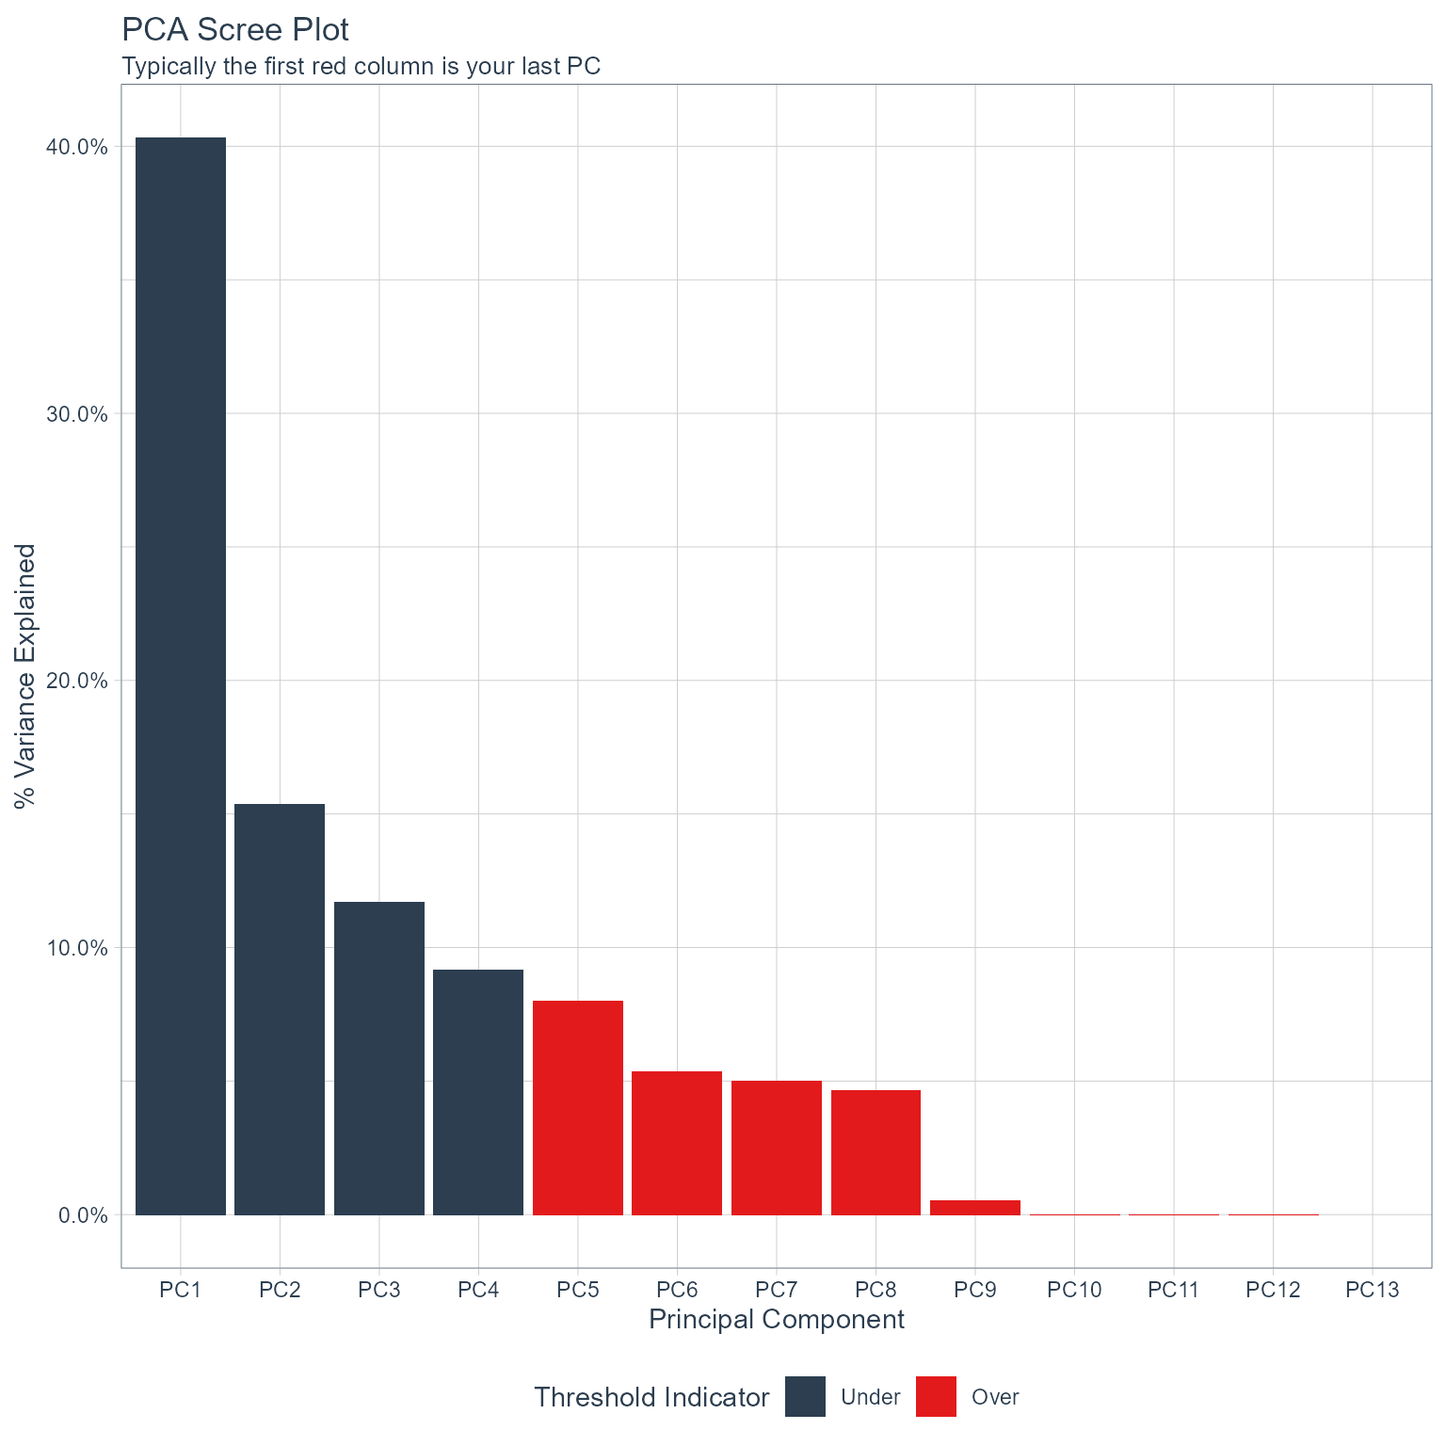
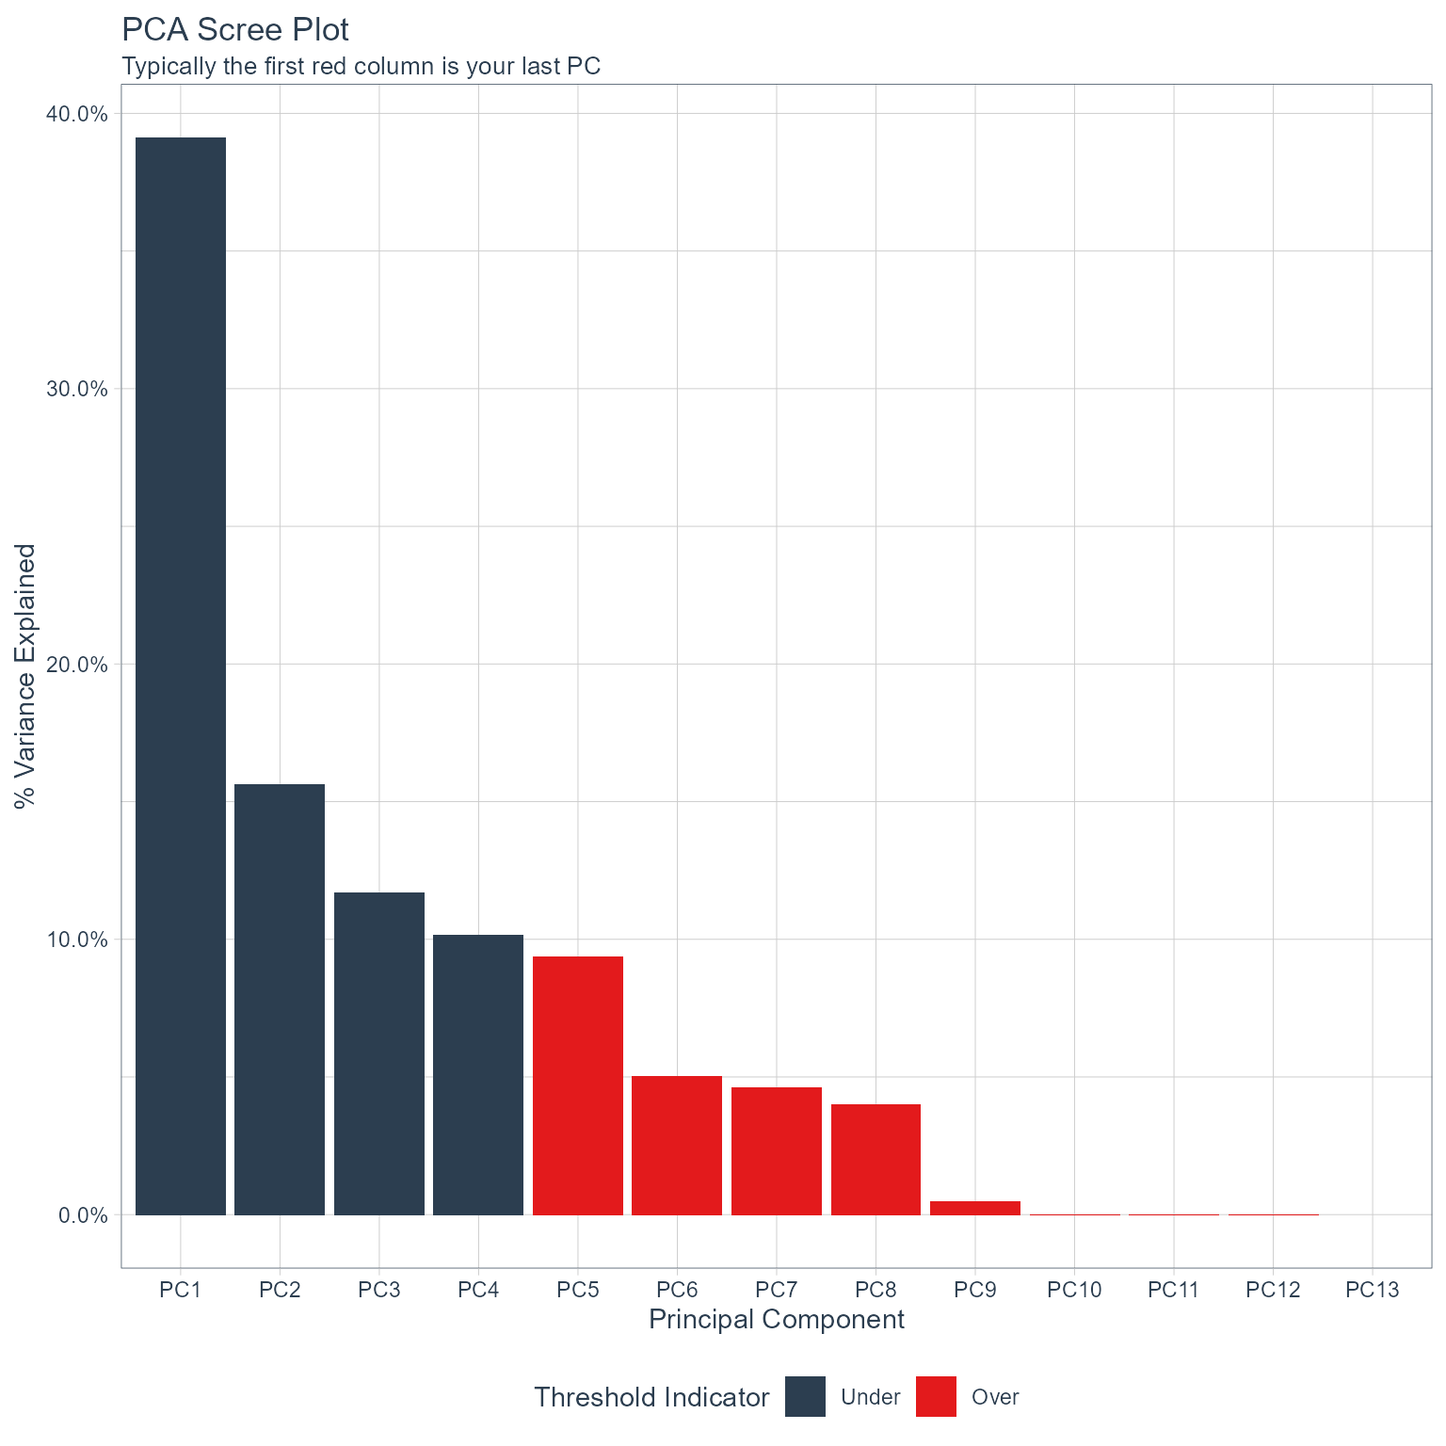
rebuild site

diff --git a/docs/articles/getting-started.html b/docs/articles/getting-started.html
@@ -172,12 +172,12 @@
 <span class="co">#&gt; # A tibble: 6 x 2</span>
 <span class="co">#&gt;   date_col            value</span>
 <span class="co">#&gt;   &lt;dttm&gt;              &lt;int&gt;</span>
-<span class="co">#&gt; 1 2016-02-01 00:00:00  1474</span>
-<span class="co">#&gt; 2 2019-12-01 00:00:00  1381</span>
-<span class="co">#&gt; 3 2013-03-01 00:00:00  1796</span>
-<span class="co">#&gt; 4 2013-05-01 00:00:00  2028</span>
-<span class="co">#&gt; 5 2017-01-01 00:00:00  1635</span>
-<span class="co">#&gt; 6 2015-03-01 00:00:00  1628</span></code></pre></div>
+<span class="co">#&gt; 1 2017-06-01 00:00:00  1661</span>
+<span class="co">#&gt; 2 2017-04-01 00:00:00  1493</span>
+<span class="co">#&gt; 3 2018-01-01 00:00:00  1756</span>
+<span class="co">#&gt; 4 2014-04-01 00:00:00  1805</span>
+<span class="co">#&gt; 5 2016-06-01 00:00:00  1544</span>
+<span class="co">#&gt; 6 2013-11-01 00:00:00  1669</span></code></pre></div>
 </div>
 <div id="initial-recipe" class="section level2">
 <h2 class="hasAnchor">
@@ -204,25 +204,25 @@
 <span class="fu"><a href="../reference/get_juiced_data.html">get_juiced_data</a></span><span class="op">(</span><span class="va">rec_obj</span><span class="op">)</span> <span class="op">%&gt;%</span> <span class="fu"><a href="https://pillar.r-lib.org/reference/glimpse.html">glimpse</a></span><span class="op">(</span><span class="op">)</span>
 <span class="co">#&gt; Rows: 76</span>
 <span class="co">#&gt; Columns: 20</span>
-<span class="co">#&gt; $ date_col           &lt;dttm&gt; 2016-02-01, 2019-12-01, 2013-03-01, 2013-05-01, 20~</span>
-<span class="co">#&gt; $ value              &lt;int&gt; 1474, 1381, 1796, 2028, 1635, 1628, 1452, 1692, 140~</span>
-<span class="co">#&gt; $ date_col_index.num &lt;dbl&gt; 1454284800, 1575158400, 1362096000, 1367366400, 148~</span>
-<span class="co">#&gt; $ date_col_year      &lt;int&gt; 2016, 2019, 2013, 2013, 2017, 2015, 2015, 2015, 201~</span>
-<span class="co">#&gt; $ date_col_half      &lt;int&gt; 1, 2, 1, 1, 1, 1, 1, 1, 1, 2, 1, 1, 2, 2, 1, 1, 1, ~</span>
-<span class="co">#&gt; $ date_col_quarter   &lt;int&gt; 1, 4, 1, 2, 1, 1, 1, 1, 2, 4, 2, 1, 3, 3, 2, 2, 1, ~</span>
-<span class="co">#&gt; $ date_col_month     &lt;int&gt; 2, 12, 3, 5, 1, 3, 2, 1, 6, 11, 4, 1, 9, 7, 6, 5, 2~</span>
-<span class="co">#&gt; $ date_col_month.lbl &lt;ord&gt; February, December, March, May, January, March, Feb~</span>
+<span class="co">#&gt; $ date_col           &lt;dttm&gt; 2017-06-01, 2017-04-01, 2018-01-01, 2014-04-01, 20~</span>
+<span class="co">#&gt; $ value              &lt;int&gt; 1661, 1493, 1756, 1805, 1544, 1669, 1630, 1659, 160~</span>
+<span class="co">#&gt; $ date_col_index.num &lt;dbl&gt; 1496275200, 1491004800, 1514764800, 1396310400, 146~</span>
+<span class="co">#&gt; $ date_col_year      &lt;int&gt; 2017, 2017, 2018, 2014, 2016, 2013, 2015, 2017, 201~</span>
+<span class="co">#&gt; $ date_col_half      &lt;int&gt; 1, 1, 1, 1, 1, 2, 1, 1, 2, 2, 2, 2, 1, 2, 2, 1, 2, ~</span>
+<span class="co">#&gt; $ date_col_quarter   &lt;int&gt; 2, 2, 1, 2, 2, 4, 2, 1, 3, 3, 3, 4, 2, 4, 3, 1, 3, ~</span>
+<span class="co">#&gt; $ date_col_month     &lt;int&gt; 6, 4, 1, 4, 6, 11, 6, 3, 8, 9, 8, 11, 4, 12, 8, 1, ~</span>
+<span class="co">#&gt; $ date_col_month.lbl &lt;ord&gt; June, April, January, April, June, November, June, ~</span>
 <span class="co">#&gt; $ date_col_day       &lt;int&gt; 1, 1, 1, 1, 1, 1, 1, 1, 1, 1, 1, 1, 1, 1, 1, 1, 1, ~</span>
-<span class="co">#&gt; $ date_col_wday      &lt;int&gt; 2, 1, 6, 4, 1, 1, 1, 5, 7, 4, 4, 4, 1, 1, 2, 2, 7, ~</span>
-<span class="co">#&gt; $ date_col_wday.lbl  &lt;ord&gt; Monday, Sunday, Friday, Wednesday, Sunday, Sunday, ~</span>
+<span class="co">#&gt; $ date_col_wday      &lt;int&gt; 5, 7, 2, 3, 4, 6, 2, 4, 3, 3, 7, 4, 6, 3, 6, 1, 6, ~</span>
+<span class="co">#&gt; $ date_col_wday.lbl  &lt;ord&gt; Thursday, Saturday, Monday, Tuesday, Wednesday, Fri~</span>
 <span class="co">#&gt; $ date_col_mday      &lt;int&gt; 1, 1, 1, 1, 1, 1, 1, 1, 1, 1, 1, 1, 1, 1, 1, 1, 1, ~</span>
-<span class="co">#&gt; $ date_col_qday      &lt;int&gt; 32, 62, 60, 31, 1, 60, 32, 1, 62, 32, 1, 1, 63, 1, ~</span>
-<span class="co">#&gt; $ date_col_yday      &lt;int&gt; 32, 335, 60, 121, 1, 60, 32, 1, 152, 305, 92, 1, 24~</span>
-<span class="co">#&gt; $ date_col_mweek     &lt;int&gt; 6, 5, 5, 5, 5, 4, 5, 5, 5, 5, 5, 5, 5, 5, 6, 6, 5, ~</span>
-<span class="co">#&gt; $ date_col_week      &lt;int&gt; 5, 48, 9, 18, 1, 9, 5, 1, 22, 44, 14, 1, 35, 26, 22~</span>
-<span class="co">#&gt; $ date_col_week2     &lt;int&gt; 1, 0, 1, 0, 1, 1, 1, 1, 0, 0, 0, 1, 1, 0, 0, 0, 1, ~</span>
-<span class="co">#&gt; $ date_col_week3     &lt;int&gt; 2, 0, 0, 0, 1, 0, 2, 1, 1, 2, 2, 1, 2, 2, 1, 0, 2, ~</span>
-<span class="co">#&gt; $ date_col_week4     &lt;int&gt; 1, 0, 1, 2, 1, 1, 1, 1, 2, 0, 2, 1, 3, 2, 2, 2, 1, ~</span>
+<span class="co">#&gt; $ date_col_qday      &lt;int&gt; 62, 1, 1, 1, 62, 32, 62, 60, 32, 63, 32, 32, 1, 62,~</span>
+<span class="co">#&gt; $ date_col_yday      &lt;int&gt; 152, 91, 1, 91, 153, 305, 152, 60, 213, 245, 213, 3~</span>
+<span class="co">#&gt; $ date_col_mweek     &lt;int&gt; 5, 5, 6, 6, 5, 5, 6, 5, 6, 6, 5, 5, 5, 5, 5, 5, 5, ~</span>
+<span class="co">#&gt; $ date_col_week      &lt;int&gt; 22, 13, 1, 13, 22, 44, 22, 9, 31, 35, 31, 44, 14, 4~</span>
+<span class="co">#&gt; $ date_col_week2     &lt;int&gt; 0, 1, 1, 1, 0, 0, 0, 1, 1, 1, 1, 0, 0, 0, 1, 1, 1, ~</span>
+<span class="co">#&gt; $ date_col_week3     &lt;int&gt; 1, 1, 1, 1, 1, 2, 1, 0, 1, 2, 1, 2, 2, 0, 1, 1, 2, ~</span>
+<span class="co">#&gt; $ date_col_week4     &lt;int&gt; 2, 1, 1, 1, 2, 0, 2, 1, 3, 3, 3, 0, 2, 0, 3, 1, 3, ~</span>
 <span class="co">#&gt; $ date_col_mday7     &lt;int&gt; 1, 1, 1, 1, 1, 1, 1, 1, 1, 1, 1, 1, 1, 1, 1, 1, 1, ~</span></code></pre></div>
 <p>Now that we have out initial recipe we can use the <code><a href="../reference/pca_your_recipe.html">pca_your_recipe()</a></code> function.</p>
 <div class="sourceCode" id="cb6"><pre class="downlit sourceCode r">
@@ -236,9 +236,9 @@
 <span class="co">#&gt;   as.zoo.data.frame zoo</span></code></pre></div>
 </div>
 </div>
-<div id="inspec-pca-output" class="section level1">
+<div id="inspect-pca-output" class="section level1">
 <h1 class="hasAnchor">
-<a href="#inspec-pca-output" class="anchor"></a>Inspec PCA Output</h1>
+<a href="#inspect-pca-output" class="anchor"></a>Inspect PCA Output</h1>
 <p>The function returns a list object and does so <code>insvisible</code> so you must assign the output to a variable, you can then access the items of the list in the usual manner.</p>
 <p>The following items are included in the output of the function:</p>
 <ol style="list-style-type: decimal">
@@ -286,16 +286,16 @@
 <span class="co">#&gt; # A tibble: 169 x 4</span>
 <span class="co">#&gt;    terms                 value component id       </span>
 <span class="co">#&gt;    &lt;chr&gt;                 &lt;dbl&gt; &lt;chr&gt;     &lt;chr&gt;    </span>
-<span class="co">#&gt;  1 date_col_index.num  0.130   PC1       pca_14C6o</span>
-<span class="co">#&gt;  2 date_col_year       0.0809  PC1       pca_14C6o</span>
-<span class="co">#&gt;  3 date_col_half       0.383   PC1       pca_14C6o</span>
-<span class="co">#&gt;  4 date_col_quarter    0.428   PC1       pca_14C6o</span>
-<span class="co">#&gt;  5 date_col_month      0.431   PC1       pca_14C6o</span>
-<span class="co">#&gt;  6 date_col_wday       0.00672 PC1       pca_14C6o</span>
-<span class="co">#&gt;  7 date_col_qday       0.00438 PC1       pca_14C6o</span>
-<span class="co">#&gt;  8 date_col_yday       0.431   PC1       pca_14C6o</span>
-<span class="co">#&gt;  9 date_col_mweek     -0.0595  PC1       pca_14C6o</span>
-<span class="co">#&gt; 10 date_col_week       0.432   PC1       pca_14C6o</span>
+<span class="co">#&gt;  1 date_col_index.num -0.0505  PC1       pca_eX1Af</span>
+<span class="co">#&gt;  2 date_col_year       0.00379 PC1       pca_eX1Af</span>
+<span class="co">#&gt;  3 date_col_half      -0.391   PC1       pca_eX1Af</span>
+<span class="co">#&gt;  4 date_col_quarter   -0.436   PC1       pca_eX1Af</span>
+<span class="co">#&gt;  5 date_col_month     -0.440   PC1       pca_eX1Af</span>
+<span class="co">#&gt;  6 date_col_wday       0.0415  PC1       pca_eX1Af</span>
+<span class="co">#&gt;  7 date_col_qday      -0.0715  PC1       pca_eX1Af</span>
+<span class="co">#&gt;  8 date_col_yday      -0.440   PC1       pca_eX1Af</span>
+<span class="co">#&gt;  9 date_col_mweek     -0.0288  PC1       pca_eX1Af</span>
+<span class="co">#&gt; 10 date_col_week      -0.441   PC1       pca_eX1Af</span>
 <span class="co">#&gt; # ... with 159 more rows</span></code></pre></div>
 </div>
 <div id="variable-variance" class="section level2">
@@ -306,16 +306,16 @@
 <span class="co">#&gt; # A tibble: 52 x 4</span>
 <span class="co">#&gt;    terms       value component id       </span>
 <span class="co">#&gt;    &lt;chr&gt;       &lt;dbl&gt;     &lt;int&gt; &lt;chr&gt;    </span>
-<span class="co">#&gt;  1 variance 5.24             1 pca_14C6o</span>
-<span class="co">#&gt;  2 variance 2.00             2 pca_14C6o</span>
-<span class="co">#&gt;  3 variance 1.52             3 pca_14C6o</span>
-<span class="co">#&gt;  4 variance 1.19             4 pca_14C6o</span>
-<span class="co">#&gt;  5 variance 1.04             5 pca_14C6o</span>
-<span class="co">#&gt;  6 variance 0.694            6 pca_14C6o</span>
-<span class="co">#&gt;  7 variance 0.648            7 pca_14C6o</span>
-<span class="co">#&gt;  8 variance 0.603            8 pca_14C6o</span>
-<span class="co">#&gt;  9 variance 0.0655           9 pca_14C6o</span>
-<span class="co">#&gt; 10 variance 0.000282        10 pca_14C6o</span>
+<span class="co">#&gt;  1 variance 5.08             1 pca_eX1Af</span>
+<span class="co">#&gt;  2 variance 2.03             2 pca_eX1Af</span>
+<span class="co">#&gt;  3 variance 1.52             3 pca_eX1Af</span>
+<span class="co">#&gt;  4 variance 1.32             4 pca_eX1Af</span>
+<span class="co">#&gt;  5 variance 1.22             5 pca_eX1Af</span>
+<span class="co">#&gt;  6 variance 0.654            6 pca_eX1Af</span>
+<span class="co">#&gt;  7 variance 0.597            7 pca_eX1Af</span>
+<span class="co">#&gt;  8 variance 0.521            8 pca_eX1Af</span>
+<span class="co">#&gt;  9 variance 0.0596           9 pca_eX1Af</span>
+<span class="co">#&gt; 10 variance 0.000243        10 pca_eX1Af</span>
 <span class="co">#&gt; # ... with 42 more rows</span></code></pre></div>
 </div>
 <div id="pca-estimates" class="section level2">
@@ -349,28 +349,28 @@
 <code class="sourceCode R"><span class="va">pca_list</span><span class="op">$</span><span class="va">pca_juiced_estimates</span> <span class="op">%&gt;%</span> <span class="fu"><a href="https://pillar.r-lib.org/reference/glimpse.html">glimpse</a></span><span class="op">(</span><span class="op">)</span>
 <span class="co">#&gt; Rows: 76</span>
 <span class="co">#&gt; Columns: 9</span>
-<span class="co">#&gt; $ date_col           &lt;dttm&gt; 2016-02-01, 2019-12-01, 2013-03-01, 2013-05-01, 20~</span>
-<span class="co">#&gt; $ value              &lt;dbl&gt; -0.263145023, -0.586270288, 0.855632776, 1.66170870~</span>
-<span class="co">#&gt; $ date_col_month.lbl &lt;ord&gt; February, December, March, May, January, March, Feb~</span>
-<span class="co">#&gt; $ date_col_wday.lbl  &lt;ord&gt; Monday, Sunday, Friday, Wednesday, Sunday, Sunday, ~</span>
-<span class="co">#&gt; $ PC1                &lt;dbl&gt; -2.82252699, 3.91897555, -2.73336373, -1.12715538, ~</span>
-<span class="co">#&gt; $ PC2                &lt;dbl&gt; 0.11398956, -1.61089032, 1.39469483, 1.66525062, -0~</span>
-<span class="co">#&gt; $ PC3                &lt;dbl&gt; -2.21699639, 0.77429773, 2.06788085, 1.37925418, -1~</span>
-<span class="co">#&gt; $ PC4                &lt;dbl&gt; -0.05556922, -1.24441130, 0.39300711, -0.09861874, ~</span>
-<span class="co">#&gt; $ PC5                &lt;dbl&gt; 0.62891852, 1.87188564, 0.58784794, 1.05093166, -0.~</span>
+<span class="co">#&gt; $ date_col           &lt;dttm&gt; 2017-06-01, 2017-04-01, 2018-01-01, 2014-04-01, 20~</span>
+<span class="co">#&gt; $ value              &lt;dbl&gt; 0.42303957, -0.33589948, 0.85220154, 1.07355877, -0~</span>
+<span class="co">#&gt; $ date_col_month.lbl &lt;ord&gt; June, April, January, April, June, November, June, ~</span>
+<span class="co">#&gt; $ date_col_wday.lbl  &lt;ord&gt; Thursday, Saturday, Monday, Tuesday, Wednesday, Fri~</span>
+<span class="co">#&gt; $ PC1                &lt;dbl&gt; 0.3064428, 1.7829876, 3.1182399, 1.6962665, 0.30183~</span>
+<span class="co">#&gt; $ PC2                &lt;dbl&gt; -0.02325472, 0.37706735, 1.18264584, -1.21065126, -~</span>
+<span class="co">#&gt; $ PC3                &lt;dbl&gt; -0.9702939, -0.4500568, 1.1830127, 1.1744107, -0.83~</span>
+<span class="co">#&gt; $ PC4                &lt;dbl&gt; 0.55725963, 0.82239958, -1.79914166, -1.72130612, 0~</span>
+<span class="co">#&gt; $ PC5                &lt;dbl&gt; 0.508851196, -1.243025381, 0.003372115, -0.47564193~</span>
 
 <span class="va">pca_list</span><span class="op">$</span><span class="va">pca_baked_data</span> <span class="op">%&gt;%</span> <span class="fu"><a href="https://pillar.r-lib.org/reference/glimpse.html">glimpse</a></span><span class="op">(</span><span class="op">)</span>
 <span class="co">#&gt; Rows: 95</span>
 <span class="co">#&gt; Columns: 9</span>
 <span class="co">#&gt; $ date_col           &lt;dttm&gt; 2013-01-01, 2013-02-01, 2013-03-01, 2013-04-01, 20~</span>
-<span class="co">#&gt; $ value              &lt;dbl&gt; 1.8493298, 0.5880990, 0.8556328, 1.0953709, 1.66170~</span>
+<span class="co">#&gt; $ value              &lt;dbl&gt; 2.3249047, 0.6850542, 1.0329013, 1.3446084, 2.08096~</span>
 <span class="co">#&gt; $ date_col_month.lbl &lt;ord&gt; January, February, March, April, May, June, July, A~</span>
 <span class="co">#&gt; $ date_col_wday.lbl  &lt;ord&gt; Tuesday, Friday, Friday, Monday, Wednesday, Saturda~</span>
-<span class="co">#&gt; $ PC1                &lt;dbl&gt; -3.5781893, -2.9281631, -2.7333637, -2.0412504, -1.~</span>
-<span class="co">#&gt; $ PC2                &lt;dbl&gt; 2.0326452, 1.9575761, 1.3946948, 2.0795472, 1.66525~</span>
-<span class="co">#&gt; $ PC3                &lt;dbl&gt; -1.727035494, 0.301278795, 2.067880845, -1.88896576~</span>
-<span class="co">#&gt; $ PC4                &lt;dbl&gt; -0.342153474, 0.325734691, 0.393007112, -0.33832686~</span>
-<span class="co">#&gt; $ PC5                &lt;dbl&gt; 0.76266084, -1.18121783, 0.58784794, 1.27807018, 1.~</span></code></pre></div>
+<span class="co">#&gt; $ PC1                &lt;dbl&gt; 3.2397928, 2.8633768, 2.4903763, 1.6958938, 0.86988~</span>
+<span class="co">#&gt; $ PC2                &lt;dbl&gt; -1.8248049, -2.1738456, -2.4910835, -1.7800612, -2.~</span>
+<span class="co">#&gt; $ PC3                &lt;dbl&gt; 1.265468108, 0.146676740, -1.488465823, 1.312579550~</span>
+<span class="co">#&gt; $ PC4                &lt;dbl&gt; -1.89054979, 0.70195083, 0.34993202, -2.12024229, -~</span>
+<span class="co">#&gt; $ PC5                &lt;dbl&gt; -0.65543226, -1.27859749, 0.56477362, -0.42740088, ~</span></code></pre></div>
 </div>
 <div id="roatation-data" class="section level2">
 <h2 class="hasAnchor">
@@ -379,19 +379,19 @@
 <code class="sourceCode R"><span class="va">pca_list</span><span class="op">$</span><span class="va">pca_rotation_df</span> <span class="op">%&gt;%</span> <span class="fu"><a href="https://pillar.r-lib.org/reference/glimpse.html">glimpse</a></span><span class="op">(</span><span class="op">)</span>
 <span class="co">#&gt; Rows: 13</span>
 <span class="co">#&gt; Columns: 13</span>
-<span class="co">#&gt; $ PC1  &lt;dbl&gt; 0.129811042, 0.080944568, 0.382561595, 0.428031316, 0.431243930, ~</span>
-<span class="co">#&gt; $ PC2  &lt;dbl&gt; -0.65819147, -0.67520571, 0.09884802, 0.08756958, 0.02800037, 0.0~</span>
-<span class="co">#&gt; $ PC3  &lt;dbl&gt; -0.10147124, -0.10857272, -0.14967101, -0.06848239, 0.04384149, 0~</span>
-<span class="co">#&gt; $ PC4  &lt;dbl&gt; -0.070072181, -0.080207612, 0.205788945, -0.005430363, 0.07293735~</span>
-<span class="co">#&gt; $ PC5  &lt;dbl&gt; -0.143661347, -0.157604175, -0.077341915, -0.006311184, 0.0938440~</span>
-<span class="co">#&gt; $ PC6  &lt;dbl&gt; 0.04864538, 0.05437621, -0.04006028, 0.10558830, -0.03530958, 0.1~</span>
-<span class="co">#&gt; $ PC7  &lt;dbl&gt; -0.02032903, -0.01802668, -0.34456716, -0.08400618, -0.02353171, ~</span>
-<span class="co">#&gt; $ PC8  &lt;dbl&gt; 0.04395971, 0.03993459, -0.05956200, 0.02794730, 0.03980713, 0.53~</span>
-<span class="co">#&gt; $ PC9  &lt;dbl&gt; -0.001302751, -0.027565983, -0.805730828, 0.260558316, 0.21903221~</span>
-<span class="co">#&gt; $ PC10 &lt;dbl&gt; -0.012323447, 0.010544785, -0.006963288, -0.293175173, -0.3808316~</span>
-<span class="co">#&gt; $ PC11 &lt;dbl&gt; -2.284312e-02, 2.316412e-02, -1.413732e-03, -7.545429e-02, 6.7565~</span>
-<span class="co">#&gt; $ PC12 &lt;dbl&gt; -0.0023138255, 0.0017292740, -0.0034302894, -0.7905485468, 0.3798~</span>
-<span class="co">#&gt; $ PC13 &lt;dbl&gt; -7.132287e-01, 6.987115e-01, 1.281713e-04, 2.952884e-02, 4.367234~</span></code></pre></div>
+<span class="co">#&gt; $ PC1  &lt;dbl&gt; -0.050510114, 0.003785409, -0.391011377, -0.436326532, -0.4404020~</span>
+<span class="co">#&gt; $ PC2  &lt;dbl&gt; 0.68520841, 0.69111311, -0.01260510, 0.01870281, -0.02922130, -0.~</span>
+<span class="co">#&gt; $ PC3  &lt;dbl&gt; -0.04436213, -0.04053814, 0.22321698, 0.03881406, -0.03329057, -0~</span>
+<span class="co">#&gt; $ PC4  &lt;dbl&gt; 0.09645836, 0.09222758, 0.14206607, -0.01729565, 0.03612214, 0.63~</span>
+<span class="co">#&gt; $ PC5  &lt;dbl&gt; 0.12109673, 0.11385334, -0.04180951, -0.10132563, 0.06325869, -0.~</span>
+<span class="co">#&gt; $ PC6  &lt;dbl&gt; -0.0339953801, -0.0341407238, 0.3323211159, 0.1251774411, 0.00165~</span>
+<span class="co">#&gt; $ PC7  &lt;dbl&gt; 0.0003137786, -0.0013685005, -0.0362325438, 0.0448030118, 0.01452~</span>
+<span class="co">#&gt; $ PC8  &lt;dbl&gt; -0.008466675, -0.002291064, -0.108300524, 0.020477391, -0.0449503~</span>
+<span class="co">#&gt; $ PC9  &lt;dbl&gt; -0.0007181232, -0.0271396704, -0.8072788597, 0.2735368143, 0.2101~</span>
+<span class="co">#&gt; $ PC10 &lt;dbl&gt; -0.012625267, 0.011077429, 0.001717868, -0.297370043, -0.37728451~</span>
+<span class="co">#&gt; $ PC11 &lt;dbl&gt; 0.0238930235, -0.0241572280, 0.0016543486, 0.1490675013, -0.71218~</span>
+<span class="co">#&gt; $ PC12 &lt;dbl&gt; 8.168137e-04, -1.213933e-03, -3.257961e-03, -7.698854e-01, 3.2065~</span>
+<span class="co">#&gt; $ PC13 &lt;dbl&gt; 7.071369e-01, -7.047123e-01, -7.649201e-05, -3.007880e-02, -4.285~</span></code></pre></div>
 </div>
 <div id="variance-and-scree-plot" class="section level2">
 <h2 class="hasAnchor">
@@ -401,10 +401,10 @@
 <span class="co">#&gt; Rows: 13</span>
 <span class="co">#&gt; Columns: 6</span>
 <span class="co">#&gt; $ PC              &lt;chr&gt; "PC1", "PC2", "PC3", "PC4", "PC5", "PC6", "PC7", "PC8"~</span>
-<span class="co">#&gt; $ var_explained   &lt;dbl&gt; 4.031497e-01, 1.537103e-01, 1.170828e-01, 9.147908e-02~</span>
-<span class="co">#&gt; $ var_pct_txt     &lt;chr&gt; "40.31%", "15.37%", "11.71%", "9.15%", "7.99%", "5.34%~</span>
-<span class="co">#&gt; $ cum_var_pct     &lt;dbl&gt; 0.4031497, 0.5568601, 0.6739429, 0.7654219, 0.8452994,~</span>
-<span class="co">#&gt; $ cum_var_pct_txt &lt;chr&gt; "40.31%", "55.69%", "67.39%", "76.54%", "84.53%", "89.~</span>
+<span class="co">#&gt; $ var_explained   &lt;dbl&gt; 3.911095e-01, 1.561597e-01, 1.168857e-01, 1.013731e-01~</span>
+<span class="co">#&gt; $ var_pct_txt     &lt;chr&gt; "39.11%", "15.62%", "11.69%", "10.14%", "9.36%", "5.03~</span>
+<span class="co">#&gt; $ cum_var_pct     &lt;dbl&gt; 0.3911095, 0.5472692, 0.6641548, 0.7655279, 0.8591145,~</span>
+<span class="co">#&gt; $ cum_var_pct_txt &lt;chr&gt; "39.11%", "54.73%", "66.42%", "76.55%", "85.91%", "90.~</span>
 <span class="co">#&gt; $ ou_threshold    &lt;fct&gt; Under, Under, Under, Under, Over, Over, Over, Over, Ov~</span></code></pre></div>
 <div class="sourceCode" id="cb14"><pre class="downlit sourceCode r">
 <code class="sourceCode R"><span class="va">pca_list</span><span class="op">$</span><span class="va">pca_variance_scree_plt</span></code></pre></div>

diff --git a/docs/reference/hai_kmeans_automl.html b/docs/reference/hai_kmeans_automl.html
@@ -151,6 +151,7 @@ object with a lot of useful and easy to use tidy style information.</p>
   .seed <span class='op'>=</span> <span class='fl'>1234</span>,
   .centers <span class='op'>=</span> <span class='fl'>10</span>,
   .standardize <span class='op'>=</span> <span class='cn'>TRUE</span>,
+  .print_model_summary <span class='op'>=</span> <span class='cn'>TRUE</span>,
   <span class='va'>.predictors</span>,
   .categorical_encoding <span class='op'>=</span> <span class='st'>"auto"</span>,
   .initialization_mode <span class='op'>=</span> <span class='st'>"Furthest"</span>,
@@ -181,6 +182,11 @@ in a data set.</p></td>
       <th>.standardize</th>
       <td><p>The default is set to TRUE. When TRUE all numeric columns
 will be set to zero mean and unit variance.</p></td>
+    </tr>
+    <tr>
+      <th>.print_model_summary</th>
+      <td><p>This is a boolean and controls if the model summary
+is printed to the console. The default is TRUE.</p></td>
     </tr>
     <tr>
       <th>.predictors</th>
